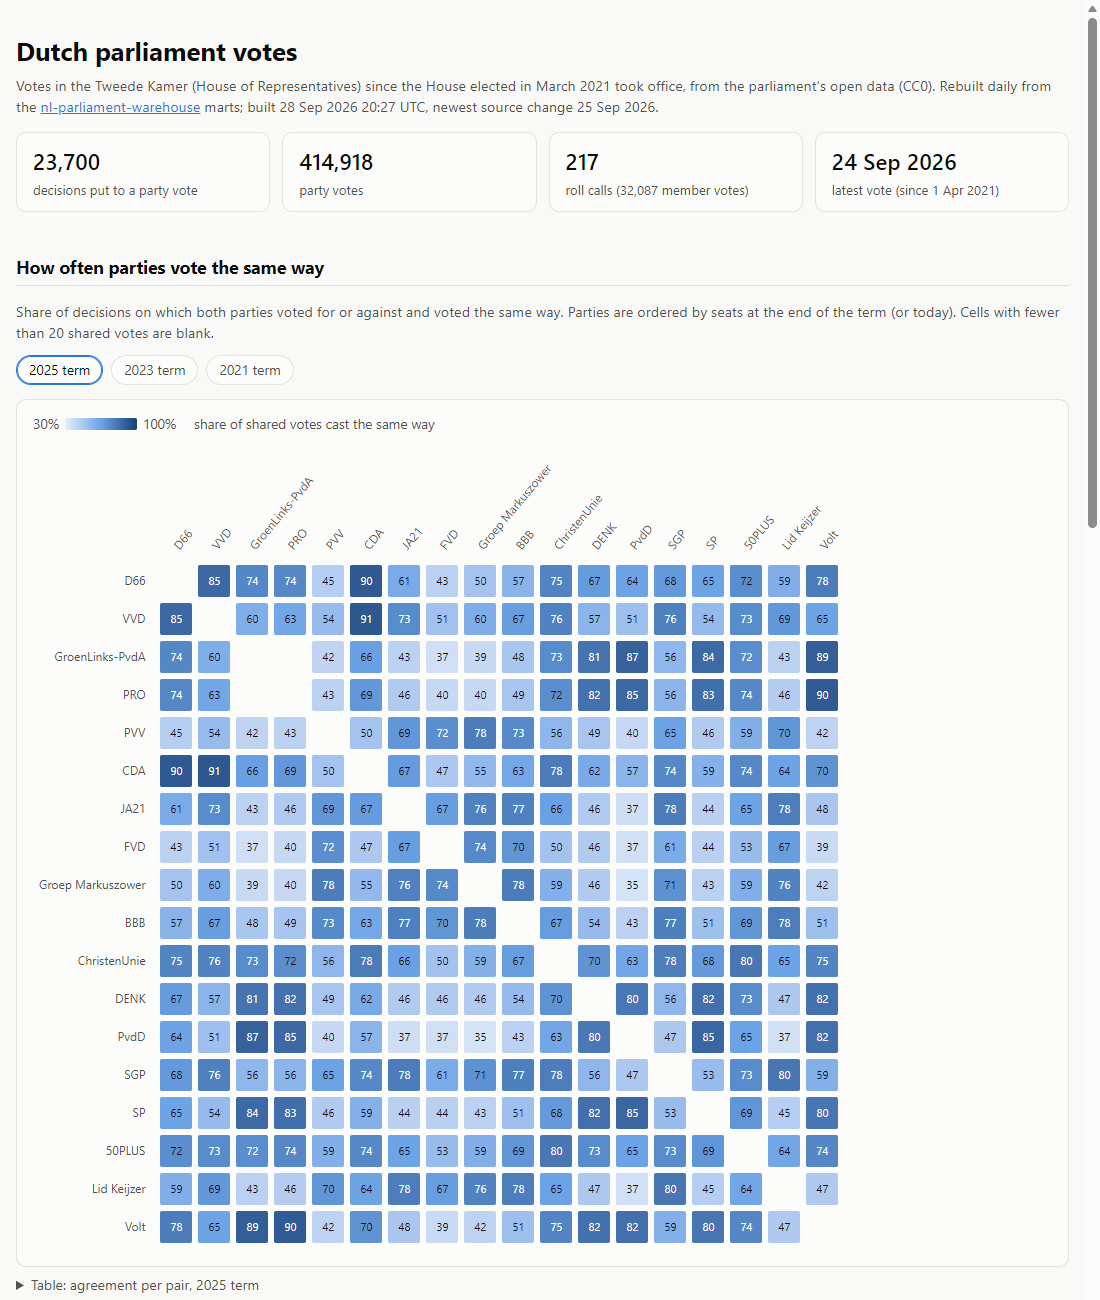
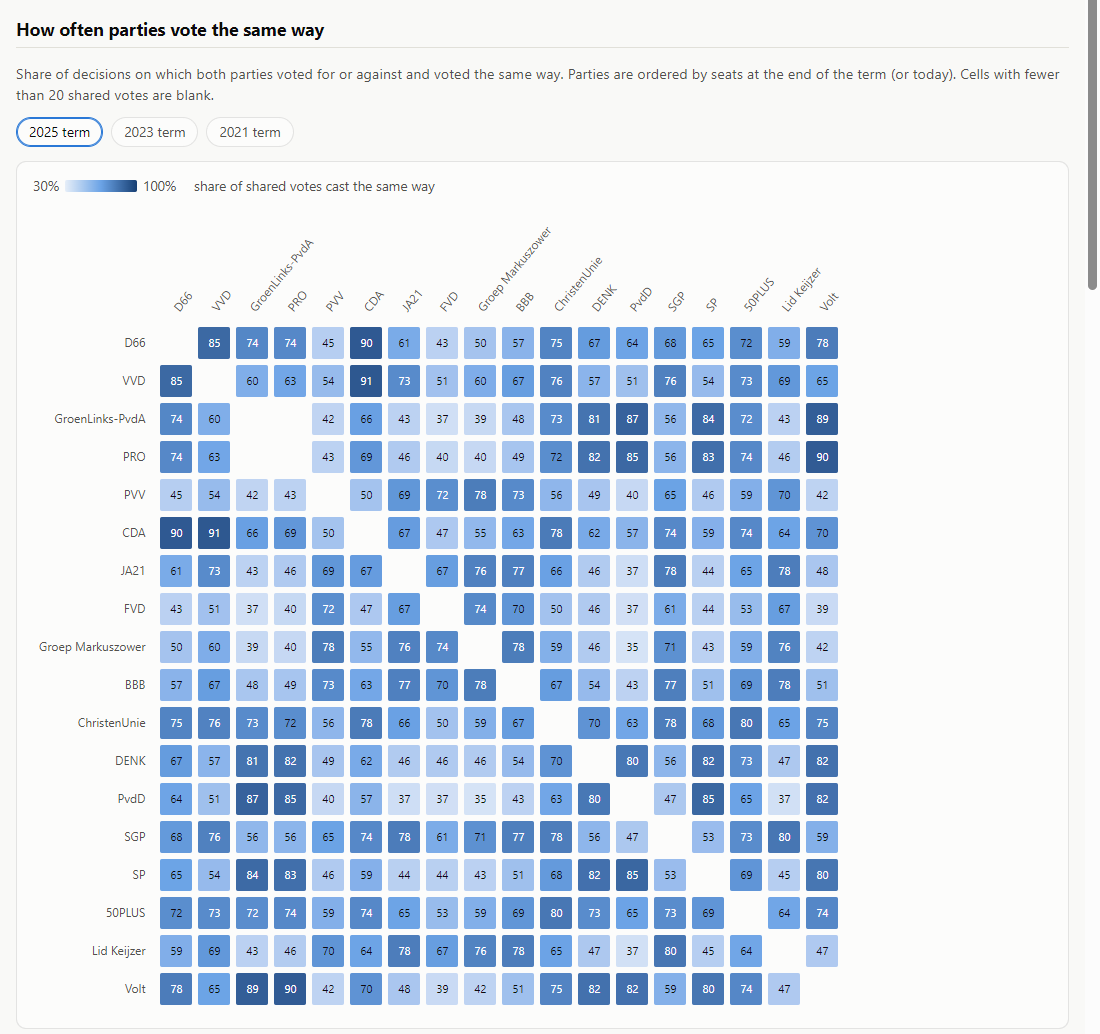
Final review: readable diagram, tighter screenshot, docs overview
The architecture diagram runs top to bottom so it fits GitHub's width; the
README screenshot shows only the agreement matrix; the last core view gets a
contract; the dbt docs open on a project overview; stale notes about party
handling and datasets are corrected.

diff --git a/docs/design.md b/docs/design.md
@@ -159,7 +159,7 @@ sandbox cannot update rows. The current checkpoint is the newest row.
 | No DML | Raw is append-only. History and "current version" are computed with window functions over the change log, not with dbt snapshots or `MERGE`. |
 | 60-day expiry | A renewal step re-creates any raw table older than 45 days with `CREATE OR REPLACE TABLE t AS SELECT * FROM t`. Marts are rebuilt every run, so they never age. |
 | 10 GiB lifetime storage | Staging and core models are views, which store nothing. Only the marts are tables: about 0.5 MB, rebuilt daily. Raw is lean: the bootstrap wrote 314 MB for 1.2 million rows (3% of the quota). |
-| 1 TiB of queries a month | A full `dbt build` on BigQuery (27 models, 104 data tests and a unit test) scans 4.3 GB in about 160 queries; run daily, that is about 130 GB a month. |
+| 1 TiB of queries a month | A full `dbt build` on BigQuery (27 models, 108 data tests and a unit test) scans 4.3 GB in about 160 queries; run daily, that is about 130 GB a month. |
 | Quota visibility | Every job's written bytes are appended to `raw.storage_ledger`. Before writing, the loader sums the ledger and refuses to write above 8 GiB, leaving room for a controlled wind-down. |
 
 If the pipeline stops for more than 60 days, raw expires. The source is the
@@ -247,7 +247,7 @@ Each mart states its definition in its YAML and on the report page:
   details (`PersoonGeschenk`, `PersoonReis`, `PersoonNevenfunctie`,
   `PersoonContactinformatie`). A unit test fails if a landing schema contains a
   column outside its allowlist.
-- **Contracts and tests.** Every core model and mart is contract-enforced. 104
+- **Contracts and tests.** Every core model and mart is contract-enforced. 108
   data tests and a unit test cover keys, relationships, accepted values,
   House-size limits (at most 150 seats behind a decision's votes) and the
   change-log rules. Source
@@ -316,8 +316,10 @@ in the other repositories.
   date, so it also brings changes to out-of-scope entities; staging filters
   those out.
 - **Roll-call coverage.** Individual votes exist only for roll-call decisions,
-  so `fct_member_vote` is sparse by nature and the report says so.
-- **Party splits and renames.** Handled through `dim_party` active dates; the
-  agreement mart compares parties as they existed at the time of each vote.
+  so `fct_member_vote` is sparse by nature; the report counts roll calls
+  separately from party votes.
+- **Party splits and renames.** The marts key parties by abbreviation, which
+  merges two records of one party (50PLUS) but keeps a renamed party under
+  each name (GroenLinks-PvdA and PRO in the 2025 term); the report notes both.
 - **Neutrality.** The report shows definitions next to every number and makes
   no rankings.

diff --git a/README.md b/README.md
@@ -33,17 +33,20 @@ Companion projects on European power markets:
 ## Architecture
 
 ```mermaid
-flowchart LR
-    F["SyncFeed (changes)"] -->|"daily, from checkpoint"| L["ingest/ (Python)"]
-    O["OData (snapshot)"] -->|"one-off bootstrap"| L
+flowchart TB
+    subgraph source["Tweede Kamer open data (CC0, no key)"]
+        F["SyncFeed: every change"]
+        O["OData: snapshot"]
+    end
+    F -->|"daily, from the checkpoint"| L["ingest/ (Python)"]
+    O -->|"one-off bootstrap"| L
     L -->|"load jobs, append-only"| R[("BigQuery raw: change log")]
-    R --> S["dbt staging (views)"]
-    S --> C["dbt core: dims, bridges, facts (views)"]
-    C --> M[("dbt marts (tables)")]
-    M --> P["GitHub Pages report"]
-    A["GitHub Actions (daily)"] -.runs.-> L
-    A -.runs.-> S
-    T["Terraform"] -.datasets, keyless access.-> R
+    R --> S["dbt staging: latest version of each entity (views)"]
+    S --> C["dbt core: dimensions, bridges, facts (views)"]
+    C --> M[("dbt marts: small tables")]
+    M --> P["GitHub Pages: report and dbt docs"]
+    A["GitHub Actions, daily"] -. runs .-> L
+    T["Terraform"] -. "datasets, keyless access" .-> R
 ```
 
 - **Change capture from a public source.** The Tweede Kamer SyncFeed republishes
@@ -60,7 +63,7 @@ flowchart LR
   data load and every dbt table in a storage ledger, refusing to write past
   8 GiB. The whole raw layer is 314 MB.
 - **A dimensional model with history.** Staging and core are views, so they
-  store nothing. Every core model and mart has an enforced contract; 104 data
+  store nothing. Every core model and mart has an enforced contract; 108 data
   tests and a unit test cover keys, relationships, House-size limits and the
   change-log rules.
 - **Personal data stays at the source.** Each entity is an allowlist in

diff --git a/docs/operations.md b/docs/operations.md
@@ -64,11 +64,10 @@ python scripts/make_sample.py --day 2026-06-02
 
 ## Infrastructure
 
-`terraform/` creates the `raw`, `staging` and `core` datasets, the ingest
-service account and the
-Workload Identity Federation provider that lets this repository's workflows
-act as that account without a key. State is local, because the usual remote
-backend (Cloud Storage) needs a billing account:
+`terraform/` creates the `raw`, `staging`, `core` and `marts` datasets, the
+ingest service account and the Workload Identity Federation provider that lets
+this repository's workflows act as that account without a key. State is local,
+because the usual remote backend (Cloud Storage) needs a billing account:
 
 ```bash
 cd terraform
@@ -80,9 +79,9 @@ terraform apply
 
 The `ingest` workflow runs at 04:30 UTC: `changes`, `renew`, `check-budget`,
 `dbt build` on BigQuery, `record-tables marts`, the report and dbt docs, then
-`status` into the run summary. A second job deploys the site to GitHub Pages. A failed run opens one GitHub
-issue labeled `ingest-failure`; later failures stay red without opening
-duplicates.
+`status` into the run summary. A second job deploys the site to GitHub Pages.
+A failed run opens one GitHub issue labeled `ingest-failure`; later failures
+stay red without opening duplicates.
 
 GitHub disables scheduled workflows in a public repository after 60 days
 without activity, which is also when the sandbox expires raw tables. If the

diff --git a/dbt/models/overview.md b/dbt/models/overview.md
@@ -1,0 +1,21 @@
+{% docs __overview__ %}
+# nl-parliament-warehouse
+
+Votes in the Dutch House of Representatives (Tweede Kamer) since 31 March 2021,
+from the parliament's open data (CC0).
+
+- **raw** (source): an append-only change log written by `ingest/` from the
+  SyncFeed and an OData snapshot. Every row is one version of one entity;
+  `deleted` marks a tombstone.
+- **staging**: views with the latest version of each entity, in English.
+- **core**: dimensions (`dim_party`, `dim_member`, `dim_case`, `dim_decision`,
+  `dim_date`, `dim_term`), bridges (`bridge_party_membership`,
+  `bridge_decision_case`, `bridge_case_submitter`) and facts (`fct_party_vote`,
+  `fct_member_vote`). All views, all contract-enforced.
+- **marts**: small tables of counts behind the
+  [report](https://kaeldrin-gh.github.io/nl-parliament-warehouse/).
+
+Open the lineage graph (bottom right) to follow a vote from the raw change log
+to the report. Design, data-quality findings and the runbook are in the
+[repository](https://github.com/kaeldrin-gh/nl-parliament-warehouse).
+{% enddocs %}

diff --git a/docs/data-quality.md b/docs/data-quality.md
@@ -26,8 +26,8 @@ votes.
   a party record that was no longer active. Today it lists exactly these
   4,338 votes; a new party with the same problem would show up here too.
 
-Party-level analysis (M3) has to treat the two records as one party, and the
-report will say so.
+The marts key parties by abbreviation (`int_party_votes_keyed`), so the two
+records count as one party, and the report says so in its notes.
 
 ## DQ-2: A third of person records are empty
 
